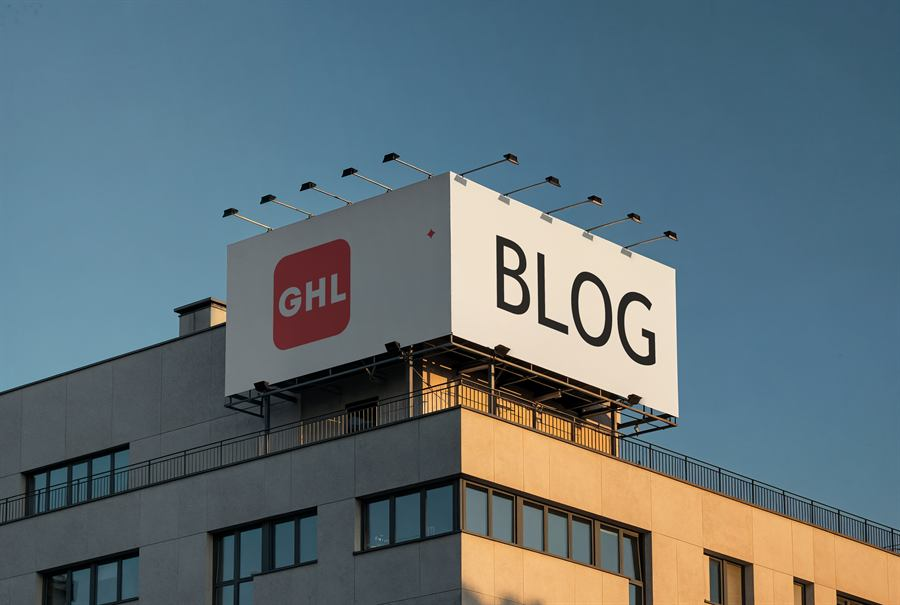
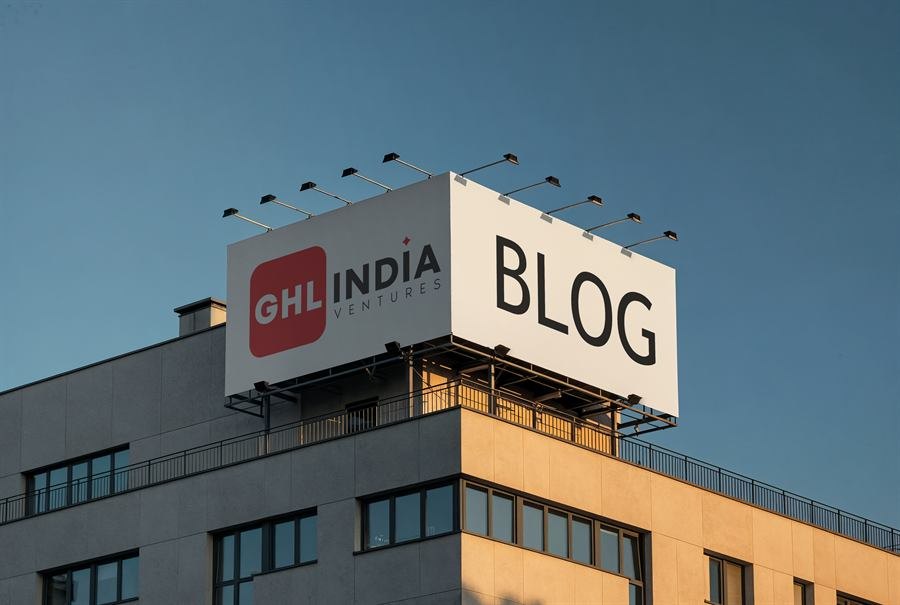
feat(heroes): refresh blog billboard, grow refer hero, add grievance + careers photos
- /blog — replace billboard image with the updated source that shows
  "GHL INDIA VENTURES" + BLOG (the prior crop only said "GHL BLOG").
- /contact/refer — make the hero noticeably taller: bump pb from
  44/56/64 to 56/72/96 and add min-h-[80vh] flex items-center
  (~720px on a 720vh viewport, up from ~470px).
- /contact/grievance — drop SpaceHero, photo backdrop (foggy
  cypress-lined road) with a top-to-bottom dark overlay so the white
  headline stays legible; pb-44/56/64 in place of pb-12.
- /contact/careers — drop SpaceHero, 3D office characters backdrop
  with the same dark overlay treatment; pb-44/56/64 in place of pb-12.

Wires images via <picture><source media="(max-width:768px)"> and
removes the now-unused SpaceHero imports from grievance and careers.

Changed region(s): [[0.2489, 0.3868, 0.4978, 0.595]]

diff --git a/app/contact/grievance/page.tsx b/app/contact/grievance/page.tsx
@@ -4,7 +4,6 @@ import { useState } from 'react'
 import { submitContactForm } from '@/lib/supabase/reportsDataService'
 import { supabase, isSupabaseConfigured } from '@/lib/supabase/client'
 import { Send, Shield, AlertTriangle, Scale, CheckCircle, ArrowRight, ChevronDown, Mail, Phone, ExternalLink } from 'lucide-react'
-import SpaceHero from '@/components/SpaceHero'
 import AnimatedSection from '@/components/AnimatedSection'
 import Link from 'next/link'
 import { BRAND } from '@/lib/constants'
@@ -125,9 +124,12 @@ export default function GrievancePage() {
   return (
     <>
       {/* ── Hero ── */}
-      <section className="relative overflow-hidden gradient-dark pt-40 pb-12">
-        <SpaceHero variant="eclipse" />
-        <div className="absolute inset-0 bg-gradient-to-b from-transparent via-transparent to-brand-black/50 pointer-events-none" />
+      <section className="relative overflow-hidden pt-40 pb-44 md:pb-56 lg:pb-64 bg-brand-black">
+        <picture aria-hidden="true">
+          <source srcSet="/images/heros/grievance-hero-sm.jpg" media="(max-width: 768px)" />
+          <img src="/images/heros/grievance-hero.jpg" alt="" className="absolute inset-0 w-full h-full object-cover pointer-events-none select-none" loading="eager" decoding="async" />
+        </picture>
+        <div className="absolute inset-0 bg-gradient-to-b from-black/75 via-black/55 to-black/85 pointer-events-none" />
         <div className="container-max mx-auto relative z-10 text-center">
           <AnimatedSection>
             <span className="eyebrow text-brand-red">Investor Protection</span>

diff --git a/app/contact/careers/page.tsx b/app/contact/careers/page.tsx
@@ -4,7 +4,6 @@ import { useState } from 'react'
 import { submitContactForm } from '@/lib/supabase/reportsDataService'
 import { supabase, isSupabaseConfigured } from '@/lib/supabase/client'
 import { Send, Briefcase, GraduationCap, MapPin, Heart, CheckCircle, ArrowRight, ChevronDown, Mail, Clock, Upload } from 'lucide-react'
-import SpaceHero from '@/components/SpaceHero'
 import AnimatedSection from '@/components/AnimatedSection'
 
 const BENEFITS = [
@@ -352,9 +351,12 @@ export default function CareersPage() {
   return (
     <>
       {/* ── Hero ── */}
-      <section className="relative overflow-hidden gradient-dark pt-40 pb-12">
-        <SpaceHero variant="mars" />
-        <div className="absolute inset-0 bg-gradient-to-b from-transparent via-transparent to-brand-black/50 pointer-events-none" />
+      <section className="relative overflow-hidden pt-40 pb-44 md:pb-56 lg:pb-64 bg-brand-black">
+        <picture aria-hidden="true">
+          <source srcSet="/images/heros/careers-hero-sm.jpg" media="(max-width: 768px)" />
+          <img src="/images/heros/careers-hero.jpg" alt="" className="absolute inset-0 w-full h-full object-cover pointer-events-none select-none" loading="eager" decoding="async" />
+        </picture>
+        <div className="absolute inset-0 bg-gradient-to-b from-black/70 via-black/55 to-black/80 pointer-events-none" />
         <div className="container-max mx-auto relative z-10 text-center">
           <AnimatedSection>
             <span className="eyebrow text-brand-red">Join Our Team</span>

diff --git a/app/contact/refer/page.tsx b/app/contact/refer/page.tsx
@@ -117,7 +117,7 @@ export default function ReferPage() {
   return (
     <>
       {/* ── Hero ── */}
-      <section className="relative overflow-hidden pt-40 pb-44 md:pb-56 lg:pb-64 bg-brand-black">
+      <section className="relative overflow-hidden pt-40 pb-56 md:pb-72 lg:pb-96 min-h-[80vh] flex items-center bg-brand-black">
         <picture aria-hidden="true">
           <source srcSet="/images/heros/refer-hero-sm.jpg" media="(max-width: 768px)" />
           <img src="/images/heros/refer-hero.jpg" alt="" className="absolute inset-0 w-full h-full object-cover pointer-events-none select-none" loading="eager" decoding="async" />
